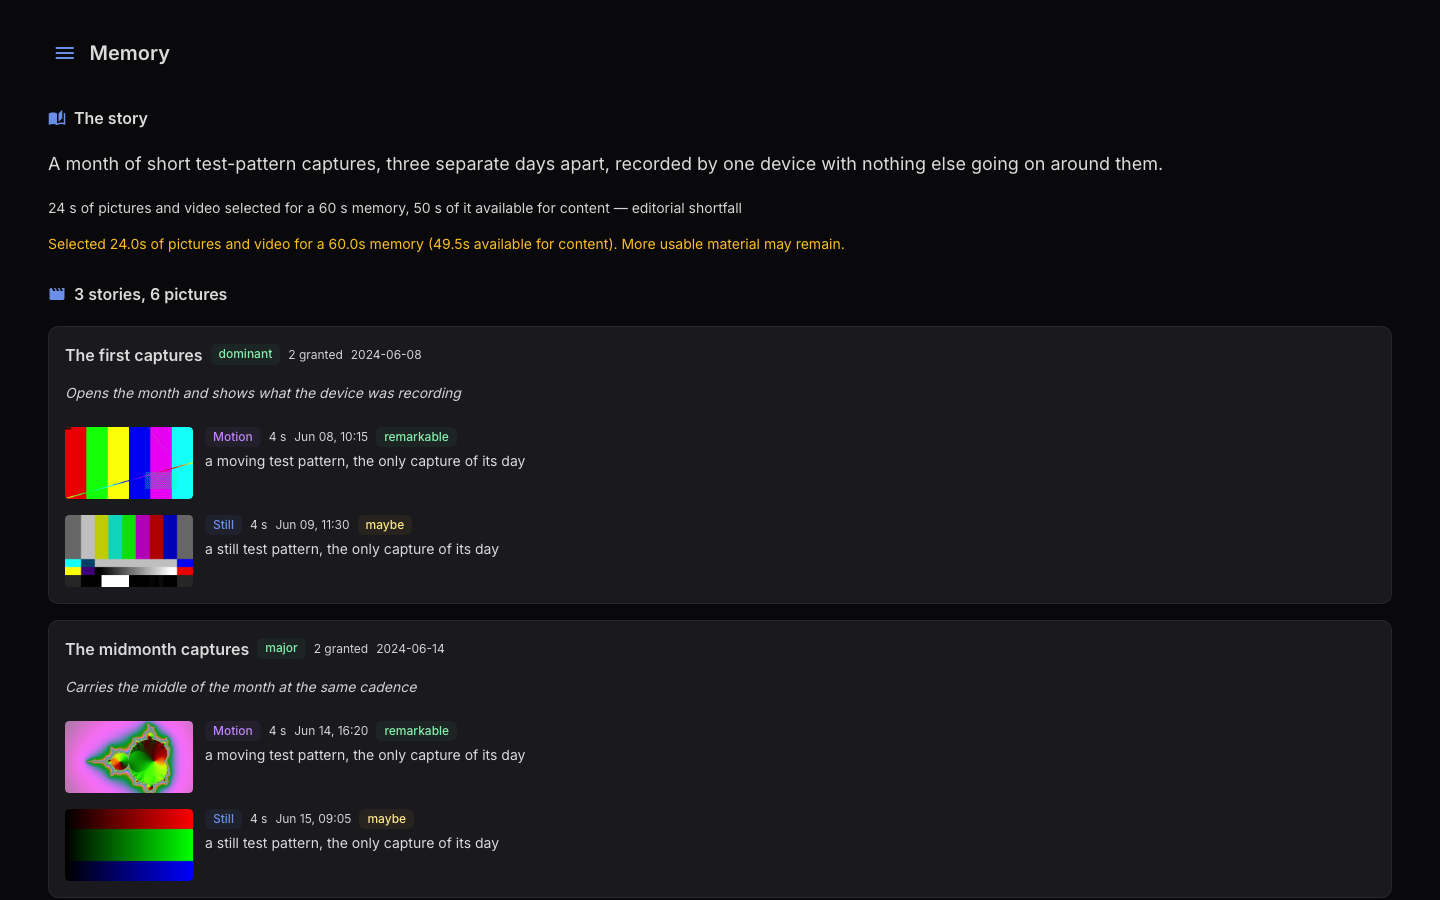
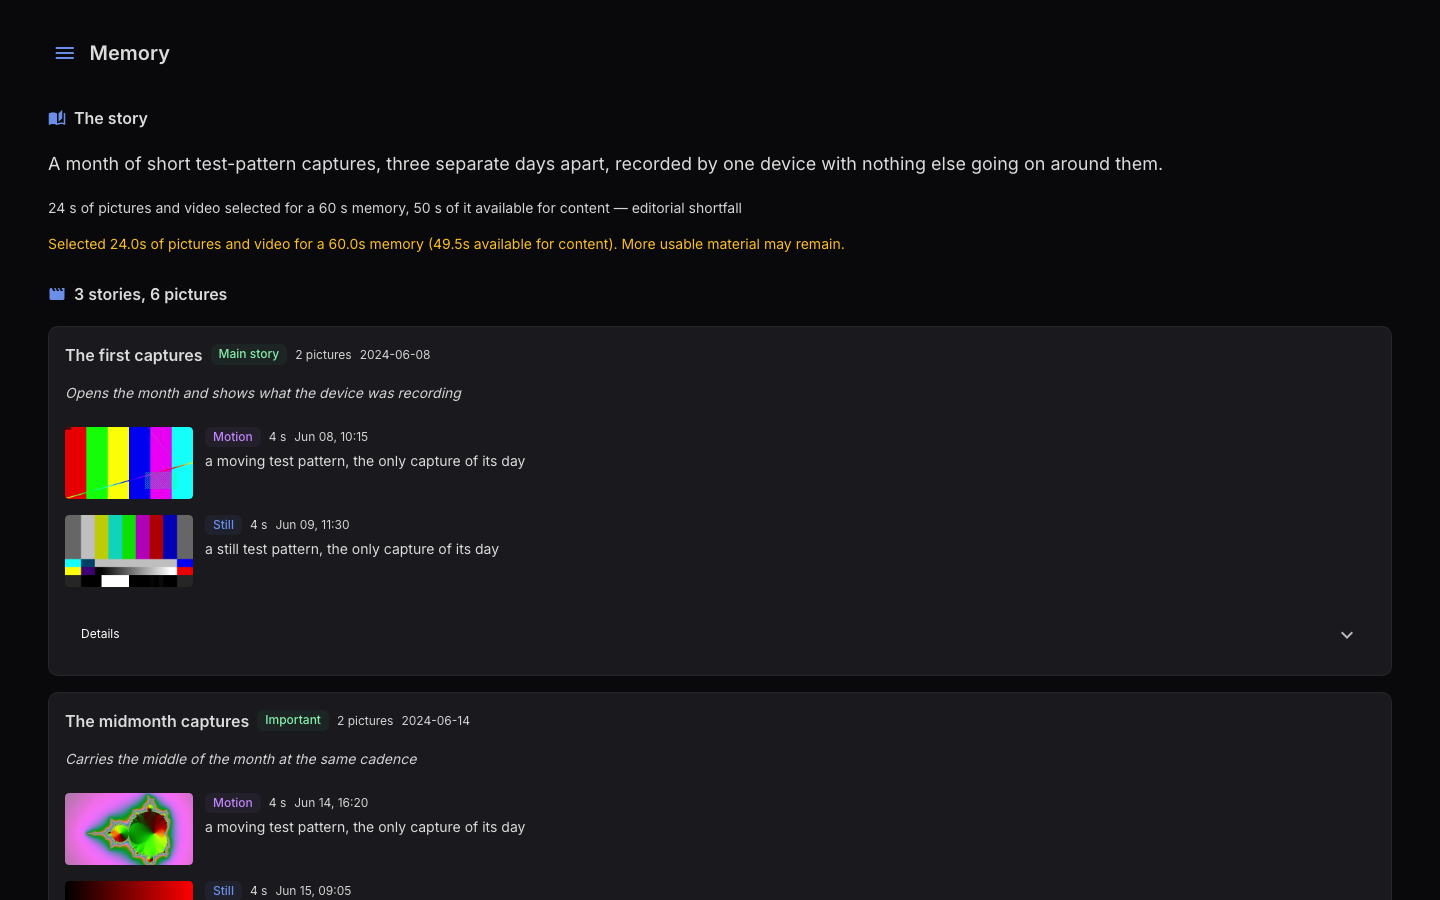
docs(ui): the story page's new words, in the pages and both demos
The two pages that name the badges described the stored vocabulary as if it were
what the page shows, and the Remotion StoryScene rendered the old words in the
demo everyone watches first. Both now read the reader words and point at
Details for the editor's own.

The scene grew a collapsed Details row per card, so its scroll distance is
re-measured (305 → 400 px) to land the cursor on Export again — verified on a
still at the click frame. Screenshots, demo.mp4 and the README hero GIF are
regenerated from the same tree.

Claude-Session: https://claude.ai/code/session_01HWFADh67MyxW2zCuouSFvv

diff --git a/docs-site/remotion/src/scenes/StoryScene.tsx b/docs-site/remotion/src/scenes/StoryScene.tsx
@@ -17,13 +17,13 @@ import { ImBadge } from "../components/ImBadge";
 import { ImButton } from "../components/ImButton";
 import { ImSectionHeader } from "../components/ImSectionHeader";
 import { ImSeparator } from "../components/ImSeparator";
+import { MaterialIcon } from "../components/MaterialIcon";
 import { AnimatedCursor } from "../components/AnimatedCursor";
 
 type Carrier = {
   motion: boolean;
   seconds: string;
   taken: string;
-  standing: "remarkable" | "maybe";
   reason: string;
   /** Soft colour block standing in for the thumbnail — never a real picture. */
   tint: string;
@@ -31,8 +31,9 @@ type Carrier = {
 
 type Story = {
   title: string;
+  /** The editor's own word; the badge shows WEIGHT_LABEL[weight] instead. */
   weight: "dominant" | "major" | "glimpse";
-  granted: string;
+  pictures: string;
   day: string;
   purpose: string;
   carriers: Carrier[];
@@ -50,7 +51,7 @@ const STORIES: Story[] = [
   {
     title: "The garden through spring",
     weight: "dominant",
-    granted: "2 granted",
+    pictures: "2 pictures",
     day: "2025-04-19",
     purpose: "Opens the year where most of it actually happened",
     carriers: [
@@ -58,7 +59,6 @@ const STORIES: Story[] = [
         motion: true,
         seconds: "5 s",
         taken: "Apr 19, 10:15",
-        standing: "remarkable",
         reason: "the only capture of the morning",
         tint: "linear-gradient(135deg, #4f6f52 0%, #86a789 55%, #d2e3c8 100%)",
       },
@@ -66,7 +66,6 @@ const STORIES: Story[] = [
         motion: false,
         seconds: "4 s",
         taken: "Apr 19, 17:40",
-        standing: "maybe",
         reason: "the whole table in one frame",
         tint: "linear-gradient(135deg, #6b5b4b 0%, #b08968 60%, #ddb892 100%)",
       },
@@ -75,7 +74,7 @@ const STORIES: Story[] = [
   {
     title: "Moving week",
     weight: "major",
-    granted: "2 granted",
+    pictures: "2 pictures",
     day: "2025-07-02",
     purpose: "Carries the middle of the year and explains the change of rooms",
     carriers: [
@@ -83,7 +82,6 @@ const STORIES: Story[] = [
         motion: false,
         seconds: "4 s",
         taken: "Jul 02, 08:05",
-        standing: "remarkable",
         reason: "boxes to the ceiling and the room already empty behind them",
         tint: "linear-gradient(135deg, #3d405b 0%, #5c6378 55%, #9aa0b5 100%)",
       },
@@ -91,7 +89,6 @@ const STORIES: Story[] = [
         motion: true,
         seconds: "6 s",
         taken: "Jul 02, 15:22",
-        standing: "maybe",
         reason: "the last look back down the hallway",
         tint: "linear-gradient(135deg, #2f3e46 0%, #52796f 60%, #84a98c 100%)",
       },
@@ -100,7 +97,7 @@ const STORIES: Story[] = [
   {
     title: "A week on the coast",
     weight: "glimpse",
-    granted: "2 granted",
+    pictures: "2 pictures",
     day: "2025-08-14",
     purpose: "Closes the year on the one week everyone was in the same place",
     carriers: [
@@ -108,7 +105,6 @@ const STORIES: Story[] = [
         motion: true,
         seconds: "5 s",
         taken: "Aug 14, 19:05",
-        standing: "remarkable",
         reason: "low sun, the whole group walking into it",
         tint: "linear-gradient(135deg, #e07a5f 0%, #f2cc8f 60%, #fdf0d5 100%)",
       },
@@ -116,7 +112,6 @@ const STORIES: Story[] = [
         motion: false,
         seconds: "4 s",
         taken: "Aug 16, 12:30",
-        standing: "maybe",
         reason: "the only picture with all of them looking up",
         tint: "linear-gradient(135deg, #1d3557 0%, #457b9d 55%, #a8dadc 100%)",
       },
@@ -130,9 +125,16 @@ const WEIGHT_VARIANT = {
   glimpse: "warning",
 } as const;
 
+// Display only — the plan keeps the editor's word, which the Details row shows.
+const WEIGHT_LABEL = {
+  dominant: "Main story",
+  major: "Important",
+  glimpse: "Small moment",
+} as const;
+
 const SCROLL_START = 72;
 const SCROLL_END = 250;
-const SCROLL_PX = 305;
+const SCROLL_PX = 400;
 const CLICK_EXPORT = 300;
 
 // Measured against a 1920x1080 still render, with the page scrolled to its end.
@@ -166,13 +168,26 @@ const CarrierRow: React.FC<{ carrier: Carrier }> = ({ carrier }) => (
         <span style={{ fontSize: 12, color: COLORS.textSecondary }}>
           {carrier.taken}
         </span>
-        <ImBadge
-          text={carrier.standing}
-          variant={carrier.standing === "remarkable" ? "success" : "warning"}
-        />
       </div>
       <span style={{ fontSize: 14, color: COLORS.text }}>{carrier.reason}</span>
     </div>
+  </div>
+);
+
+/** Collapsed, as the page opens it: the editor's weight and standings are one click away. */
+const DetailsRow: React.FC = () => (
+  <div
+    style={{
+      display: "flex",
+      alignItems: "center",
+      justifyContent: "space-between",
+      marginTop: 12,
+      fontSize: 12,
+      color: COLORS.textSecondary,
+    }}
+  >
+    <span>Details</span>
+    <MaterialIcon name="expand_more" size={18} color={COLORS.textSecondary} />
   </div>
 );
 
@@ -192,9 +207,12 @@ const StoryCard: React.FC<{ story: Story; reveal: number }> = ({
       <span style={{ fontSize: 16, fontWeight: 600, color: COLORS.text }}>
         {story.title}
       </span>
-      <ImBadge text={story.weight} variant={WEIGHT_VARIANT[story.weight]} />
+      <ImBadge
+        text={WEIGHT_LABEL[story.weight]}
+        variant={WEIGHT_VARIANT[story.weight]}
+      />
       <span style={{ fontSize: 12, color: COLORS.textSecondary }}>
-        {story.granted}
+        {story.pictures}
       </span>
       <span style={{ fontSize: 12, color: COLORS.textSecondary }}>
         {story.day}
@@ -213,6 +231,7 @@ const StoryCard: React.FC<{ story: Story; reveal: number }> = ({
     {story.carriers.map((carrier) => (
       <CarrierRow key={carrier.taken} carrier={carrier} />
     ))}
+    <DetailsRow />
   </ImCard>
 );
 

diff --git a/docs-site/remotion/src/Composition.tsx b/docs-site/remotion/src/Composition.tsx
@@ -82,7 +82,7 @@ export const DemoVideo: React.FC = () => {
           timing={linearTiming({ durationInFrames: FADE })}
         />
 
-        {/* 4. Story — the thesis, its stories, the pictures each was granted */}
+        {/* 4. Story — the thesis, its stories, the pictures each one holds */}
         <TransitionSeries.Sequence durationInFrames={D.story}>
           <StoryScene bassIntensity={bass} />
         </TransitionSeries.Sequence>
